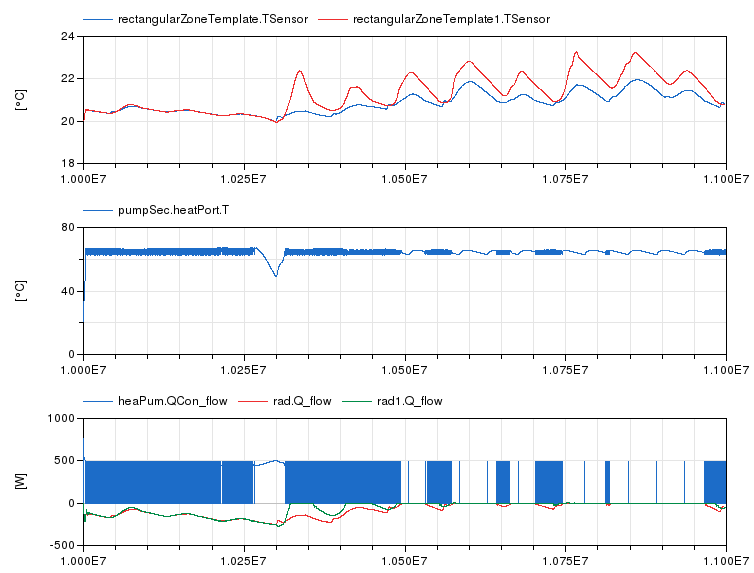
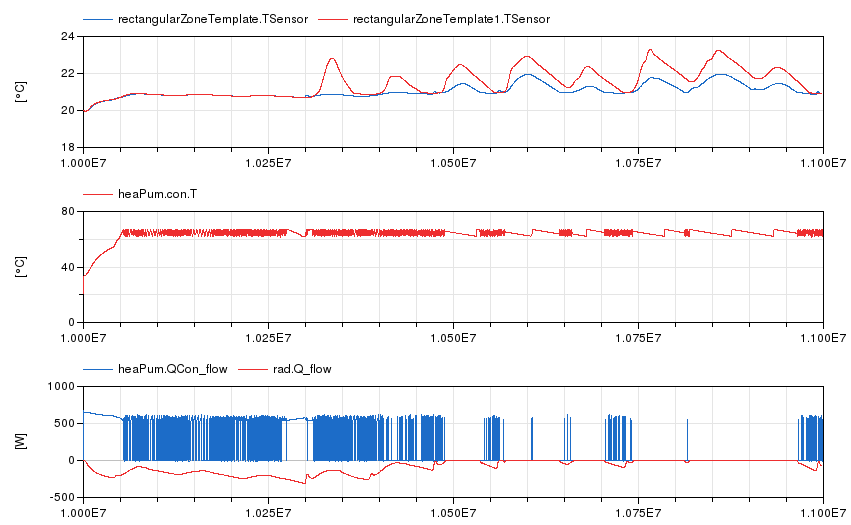
added storage tank, temperaturetwoport, etc

diff --git a/2019-2020/Exercises/SimpleHouse/Latex/DetailedHouse2.tex b/2019-2020/Exercises/SimpleHouse/Latex/DetailedHouse2.tex
@@ -9,7 +9,7 @@
 \usepackage[per-mode=symbol]{siunitx}
 
 \begin{document}
-\title{IDEAS crash course exercise instructions}
+\title{Task 2: IDEAS Tutorial, part 2}
 \author{Filip Jorissen, KU Leuven}
 \date{September 20, 2019}
 \maketitle
@@ -73,10 +73,10 @@ This step requires the main building envelope component models of IDEAS:
 \item \path{IDEAS.Fluid.HeatPumps.ScrollWaterToWater}
 \item \path{IDEAS.Fluid.HeatExchangers.Radiators.RadiatorEN442_2}
 \item \path{IDEAS.Fluid.Actuators.Valves.TwoWayTRV}
-\item \path{Modelica.Thermal.HeatTransfer.Sensors.TemperatureSensor}
 \item \path{IDEAS.Fluid.Movers.FlowControlled_dp}
 \item \path{IDEAS.Fluid.Sources.Boundary_pT}
 \item \path{IDEAS.Media.Water}
+\item \path{IDEAS.Fluid.Storage.Stratified}
 \item \path{Modelica.Blocks.Sources.IntegerConstant}
 \item \path{Modelica.Blocks.Continuous.Integrator}
 \end{itemize}
@@ -134,8 +134,8 @@ and a pressure drop of 0 Pa\footnote{We here implicitly assume that the radiator
 Typically, radiators have a Thermostatic Radiator Valve (TRV)
 that automatically reduces the flow towards the radiator
 when the zone temperature is sufficiently high.
-We model this by adding a TRV model, which takes
-the convective (air) temperature of the zone as an input.
+We model this by adding a TRV model, which uses
+the zone temperature \path{TSensor} as an input.
 Physically, each radiator has its own TRV, 
 so this should be reflected in the model.
 The nominal mass flow rate of the valve can be set to the nominal
@@ -152,8 +152,12 @@ Furthermore, choose realistic nominal mass flow rates and set the nominal pressu
 drop to 10 kPa. Set \path{enable_variable_speed=false} and set the control input (orange triangle)
 such that the heat pump is on.
 
+Add a storage tank that buffers the warm water that is produced.
+Connect the storage tank at the secondary (the warm side) outlet of the heat pump.
+Choose a volume of 100 l (0.1 m$^3$), a height of 0.5~m and an insulation thickness of 10~cm.
+
 Add two pumps.
-At the secondary side of the heat pump (the warm side), 
+At the secondary side of the heat pump, 
 set the pump nominal flow rate to the sum of the radiator nominal flow rates
 and set the nominal pressure head to 20~kPa.
 At the primary side, do the same.
@@ -203,7 +207,7 @@ seconds later, which is a period of 11.6 days.\\
 
 
 We now plot the zone temperatures, 
-the supply water temperature \path{pumpSec.heatPort.T},
+the heat pump condenser temperature \path{heaPum.con.T},
 the heat pump heat flow rate \path{heaPum.QCon_flow}
 and the radiator heat flow rates \path{rad.Q_flow}.
 
@@ -213,7 +217,7 @@ the 21 degree set point of the radiator thermostatic valves.
 The temperatures do rise above the set point, 
 which is caused by solar heat gains, not by the radiators.
 
-The supply temperature towards the radiators rises up to 65 degrees.
+The supply water temperature of the radiators rises up to 65 degrees.
 The radiator nominal dimensions are for a supply water temperature of
 45 degrees. The elevated temperatures mean that the radiator can
 emit a higher than nominal thermal power.
@@ -222,7 +226,7 @@ even half of its nominal value.
 This is caused by the thermostatic valves, which reduce the mass flow rate
 that enters the radiator, and consequently lowers the thermal power.
 This reduced mass flow rate causes a large temperature difference across the heat pump,
-which in turn explains the elevated supply water temperatures.
+which in turn explains the elevated heat pump condenser temperatures.
 The heat pump model contains a built-in temperature protection, which disables
 the heat pump when the temperature exceeds a predefined threshold.
 Consequently, the heat pump continuously switches on and off
@@ -231,7 +235,7 @@ This switching also negatively impacts the computation time,
 as you may have noticed.\\
 
 This example illustrates the importance of control, which is currently not modelled.
-All pumps and the heat pump are assumed to be operated continuously, 
+All pumps and the heat pump are assumed to be active continuously, 
 which is detrimental for the system performance.
 The COP (\path{heaPum.com.COP}) is only about 2.7.
 
@@ -252,16 +256,16 @@ when the supply water temperature exceeds 45 degrees.
 
 \paragraph{Required models}
 \begin{itemize}
+\item \path{IDEAS.Fluid.Sensors.TemperatureTwoPort}
 \item \path{Modelica.Blocks.Logical.Hysteresis}
 \item \path{Modelica.Blocks.Math.BooleanToReal}
-\item \path{Modelica.Thermal.HeatTransfer.Sensors.TemperatureSensor}
 \end{itemize}
 
 \paragraph{Instructions}
-Use a temperature sensor to measure the pump temperature,
-which is equal to the supply water temperature.
+Before extending the previous step, add a temperature sensor between the storage tank
+and the secondary circulation pump.
 This measurement serves as an input to the hysteresis controller.
-Configure the controller such that it switches to an `false' signal below
+Now extend the model and configure the controller such that it switches to an `false' signal below
 40 degrees and to `true' above 45 degrees\footnote{Take into account that the measurement has units of Kelvin!}.
 
 The output of the hysteresis controller is thus `true' when the supply temperature is 
@@ -282,7 +286,7 @@ signal are ignored.
 Note that the control signal of the heat pump could also have been used to disable
 the circulation pumps.
 However, disabling the circulation pump disables the flow of water,
-which causes the circulation pump temperature to remain fixed at
+which causes the temperature sensor output to remain fixed at
 its last value.
 Since this value, at the point of disabling the point, was more then 45 degrees,
 it would stay at that value and consequently the system would not be enabled again.
@@ -292,8 +296,9 @@ occur in reality!\\
 
 We have used a hysteresis controller to enable and disable the heat pump,
 while we might as well have used a simple `greater or equal' comparison.
-This can however introduce very rapid switching between turning the heat pump on
-and off. Indeed, enabling the heat pump will, almost instantaneously increase the 
+If there were no storage tank,
+this would however introduce very rapid switching between turning the heat pump on
+and off. Indeed, enabling the heat pump will, almost instantaneously increases the 
 supply water temperature, causing the heat pump to be disabled again.
 This effect is called chattering and can be very detrimental for the simulation speed 
 and should therefore be avoided.
@@ -309,15 +314,22 @@ connections to removed connectors or components should be ignored.
 Figure~\ref{fig:res2} compares the results with the results without controller.
 We see that indeed, the supply temperature is significantly reduced significantly.
 This causes the zone temperature to be slightly lower, up to about 0.25~K.
-The COP however increases tremendously, from about 2.7 to about 5.
-Consequently, the energy use over the period is reduced from 14.74~kWh
-to 7.61~kWh.\\
+The COP however increases significantly, from about 2.7 to about 3 to 4.
+Consequently, the energy use over the period is reduced from 17.2~kWh
+to 12.57~kWh.\\
+
+Note that this heating system configuration is still 
+not efficient since the small flow rates still cause 
+large temperatures to occur within the heat pump
+and thus cause a small COP.
+COP's of more than 5 are obtainable when using a separate
+pump to charge the storage tank.
 
 
 \begin{figure}
 \centering
 \includegraphics[width=\linewidth]{Example7.png}
-\caption{Comparison with (blue) and without (red) control for zone temperature, supply water temperature and radiator thermal power.}
+\caption{Comparison with (red) and without (blue) control for zone temperature, supply water temperature and radiator thermal power.}
 \label{fig:res2}
 \end{figure}
 
@@ -326,12 +338,10 @@ To further play with this model, you can try to enable/disable the circulation p
 signal and see what happens.
 Secondly, you can set the heat pump control signal to 0.3 instead of 1,
 which causes the heat pump to be modulated to 30\% thermal power.
-This has a huge impact on computation time since the heat pump is no longer
-continuously switching on and off. 
+This has a large impact on the COP since the temperature difference across the heat 
+pump is reduced. 
 However, the heat pump is unable to satisfy the heat demand.
-Note that frequent on/off switching is problematic in reality too.
-Therefore heat pumps can often modulate, or a thermal storage tank is
-added to the system to slow the thermal response of the heating system.
+
 
 
 \section{Workflow automation}
@@ -376,8 +386,9 @@ Depending on the chosen value for the parameter \path{varKeys},
 you should get something similar to:
 \begin{verbatim}
 {
-  "Electrical energy [kWh]" : 7.6106504607e+00
+  "Electrical energy [kWh]" : 1.2577137592e+01
 }
+
 \end{verbatim}
 
 
@@ -583,21 +594,24 @@ concentration when there are no occupants.
 
 
 \section{Computation time}
-The models that you have just created are fairly slow. 
-The main reason is that the heat pump on/off controller, causes a lot
-of sudden transients that force the solver to take small steps, 
-which takes a lot of time.
-As we explained, the controller is switching more than it should,
-but even then the computation time is high.\\
+The models that you have just created are fairly slow
+and computation time can easily explode when controller
+oscillations occur or when the heat pump experiences frequent on/off switches. 
+These effects cause a lot
+of fast transients that force the solver to take small steps, 
+which takes a lot of time.\\
 
 Fortunately, there are many tricks that can be used to speed up the solver. 
 The fundamental principle is that we remove small time constants from the problem,.
 \path{IDEAS.Examples.Tutorial.Example10} implements changes that
-cause the simulation to become 4 times faster.
+cause the simulation to become 2 times faster.
 If we do this systematically, and we remove \textbf{all} fast time constants,
-we can use a different solver (Euler), for which the simulation time becomes 20 times smaller
+we can use a different solver (Euler), 
+using which the simulation time also becomes 2 times smaller
 when using a fixed time step of 20 seconds.
-For large models, the difference in computation time can even be a factor 1000.
+These are modest improvements since this small example model behaves rather well.
+However, for large models, the difference in computation time 
+when using Euler integration can become a factor 1000.
 The modifications however require a bit of knowledge about solvers 
 and the models that you are using, including some of the more advanced parameters.
 To learn more about this, we refer to \cite{Jorissen2015,Jorissen2018,phd}.

diff --git a/2019-2020/Exercises/SimpleHouse/Latex/DetailedHouse.tex b/2019-2020/Exercises/SimpleHouse/Latex/DetailedHouse.tex
@@ -9,7 +9,7 @@
 \usepackage[per-mode=symbol]{siunitx}
 
 \begin{document}
-\title{IDEAS crash course exercise instructions}
+\title{Task 2: IDEAS Tutorial, part 1}
 \author{Filip Jorissen, KU Leuven}
 \date{September 20, 2019}
 \maketitle
